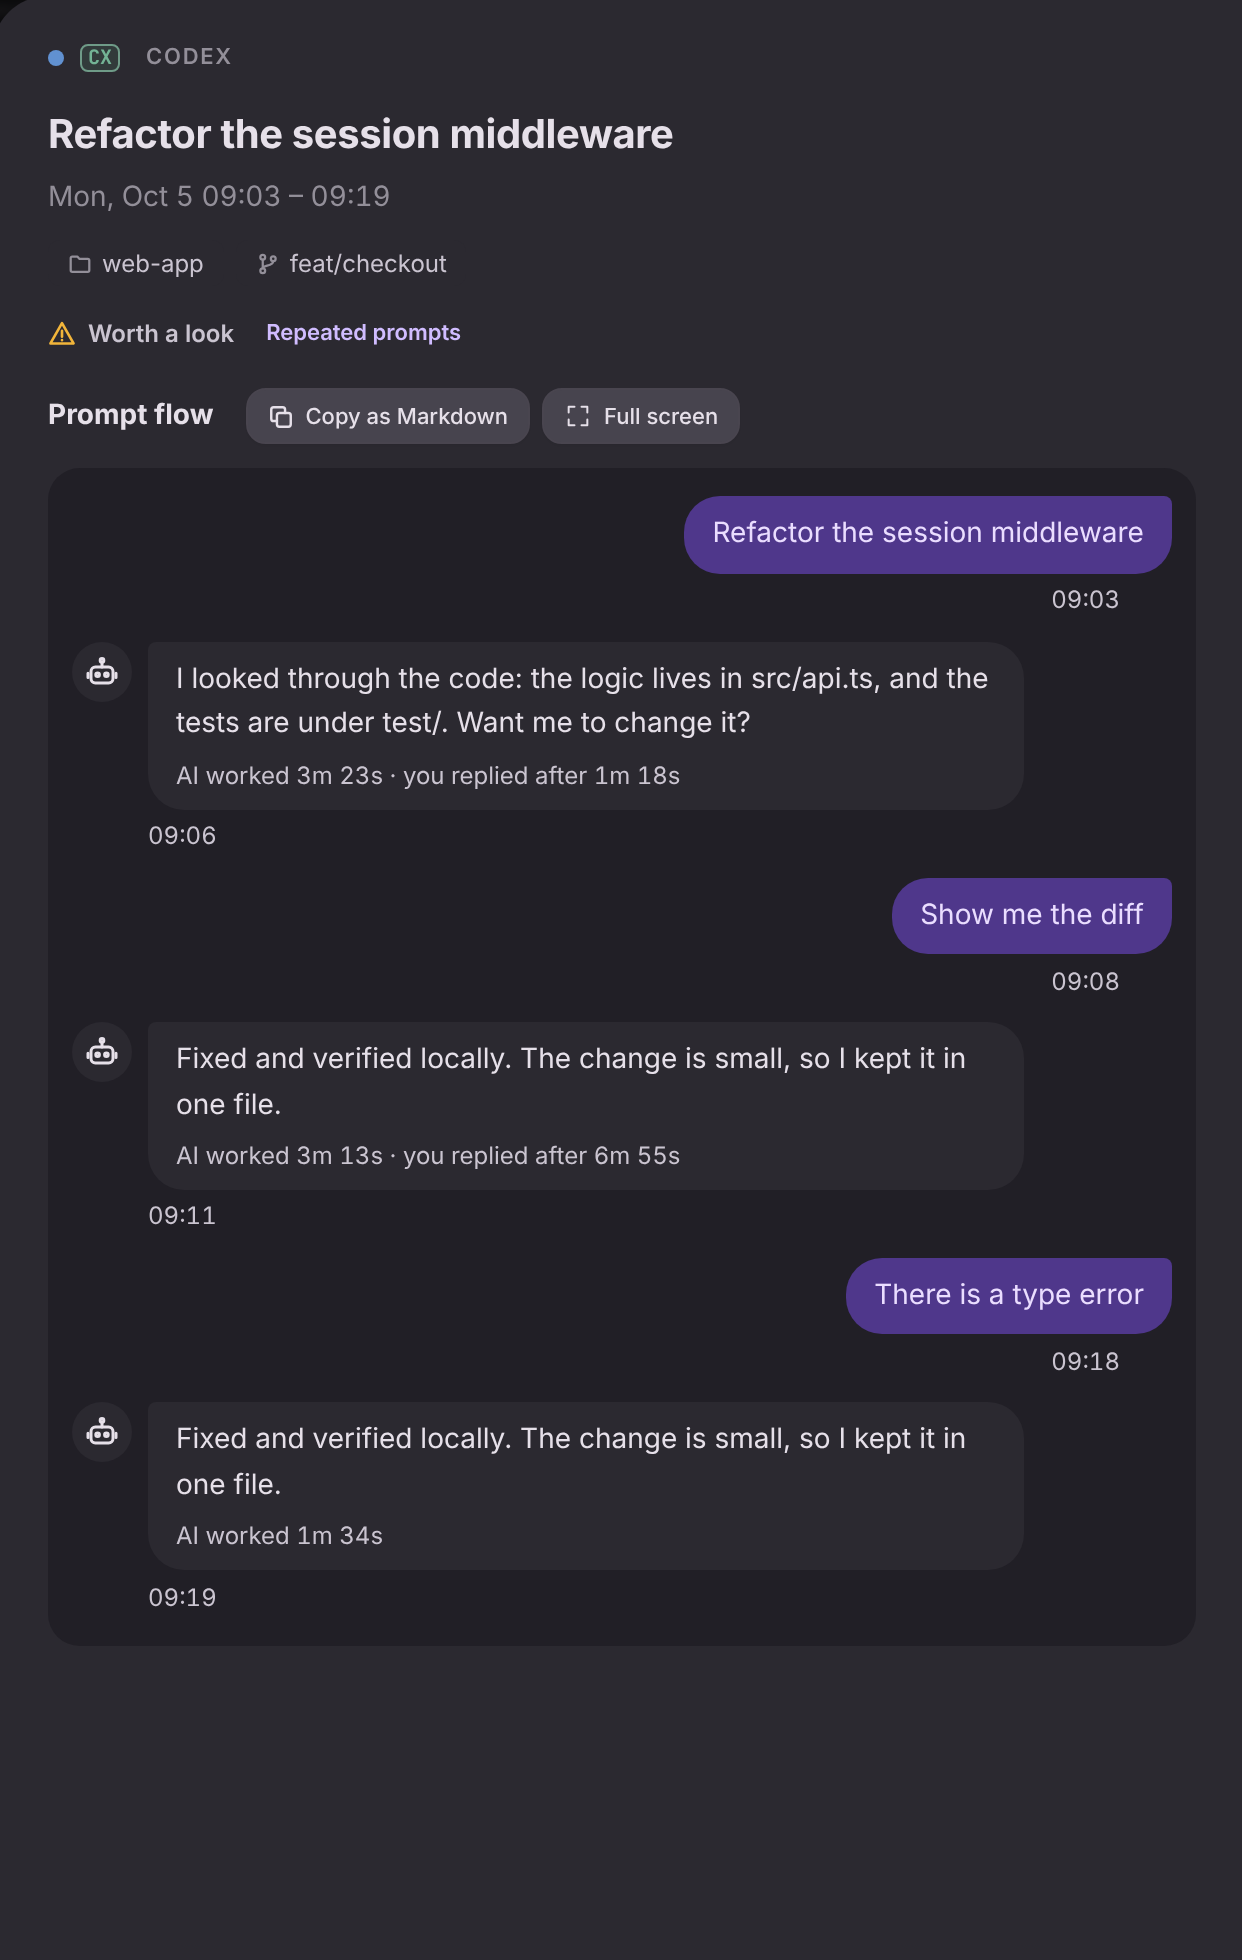
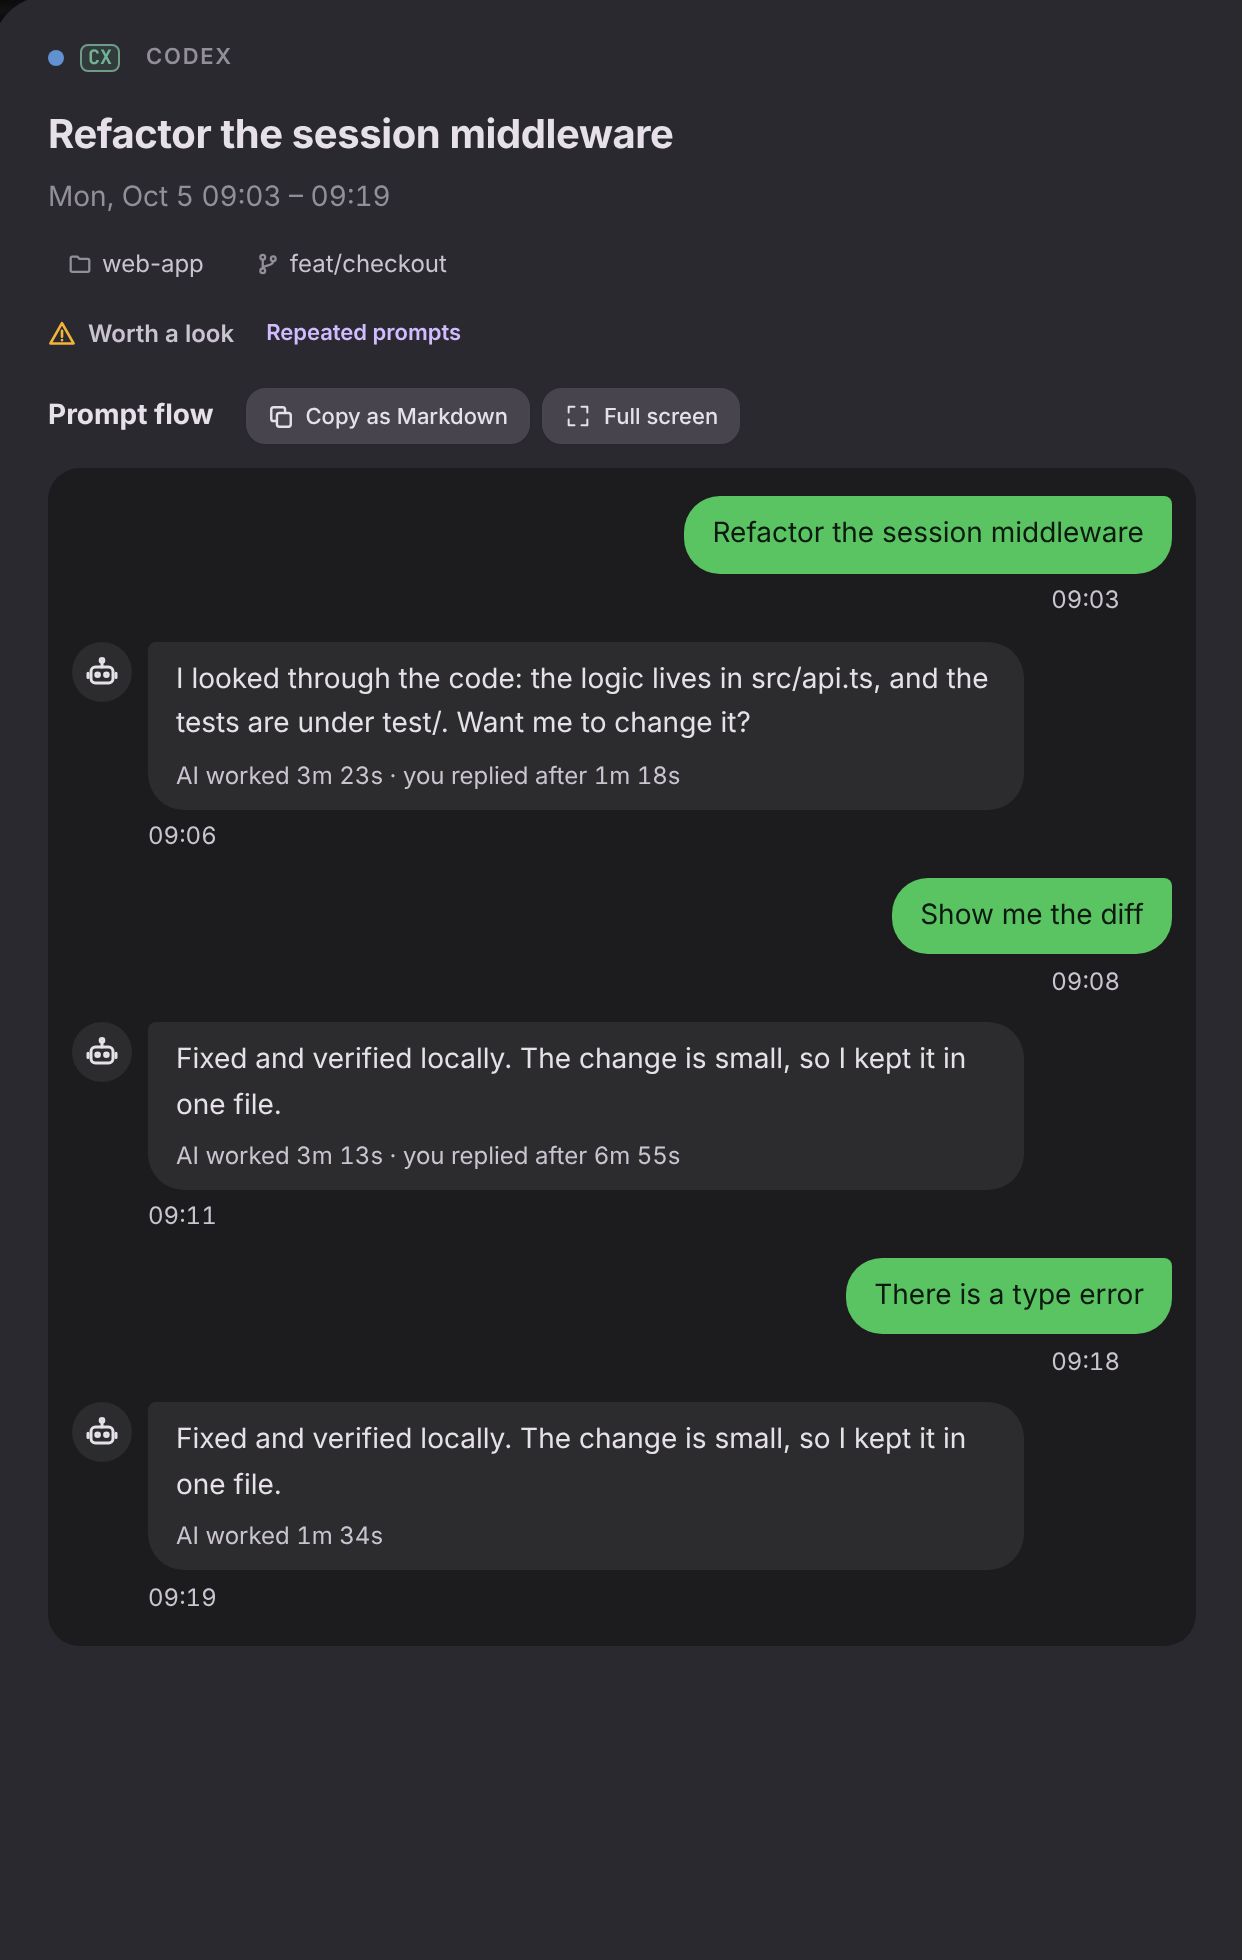
Session details: prompt flow in dark messaging-app colors
The prompt flow now reads like a dark-mode messaging app (colors only,
no logo or other brand asset): your prompts are green bubbles (#5ac463)
with near-black text, the AI's replies dark gray bubbles (#2c2c2e) with
light text, on a dark neutral gray background (#1c1c1e). Tags, links,
cut notes and focus rings inside your bubbles turn dark so they stay
readable on green; events, notes, limits and interruptions keep their
own labels on a lighter gray or red.

TestChatContrast checks every text and mark pair in the flow: at least
4.5:1 for text and 3:1 for small marks, blending the translucent tag
background and the resting copy button with what is under them.

Changed region(s): [[0.5507, 0.249, 0.9485, 0.3112], [0.6731, 0.6224, 0.9485, 0.6847], [0.7037, 0.4357, 0.9485, 0.498]]

diff --git a/internal/web/style.css b/internal/web/style.css
@@ -964,11 +964,11 @@ header{background:var(--s-cont);border-bottom:0}
 @media (max-width:520px){.istats .stat:last-child:nth-child(odd){grid-column:auto}}
 /* スマホ：指標の切り替えは折り返さず、横にスクロール */
 @media (max-width:820px){.insk{flex-wrap:nowrap;overflow-x:auto;max-width:100%;scrollbar-width:none}.insk::-webkit-scrollbar{display:none}.insk button{flex:none}.inshead{flex-wrap:wrap}}
-/* ── プロンプトの流れ：メッセージアプリの会話の見た目 ──
-   kiroku の面の色（M3 の段）の地に、あなたの発言は右の紫の容器の吹き出し（自分の印は出さない）、AI の応答は左の白い吹き出しと印。
-   時刻は吹き出しの外の下の端。あいだに起きたこと（コミット・PR・中断など）は、真ん中の灰色の札（上限と中断は赤の容器） */
-.tl{--chat-bg:var(--s-cont);--chat-me:var(--pc);--chat-me-ink:var(--on-pc);--chat-me-meta:#cbb8f5;--chat-ai:var(--surface-2);--chat-ai-ink:var(--ink);--chat-ai-meta:var(--ink-2);--chat-sys:var(--s-highest);--chat-sys-ink:var(--ink-2);--chat-warn:#601410;--chat-warn-ink:#f9dedc;--chat-ink:var(--ink-2);--chat-tag:rgba(0,0,0,.22);--chat-tag-ink:var(--amber-ink);--chat-link:var(--acc-ink);--chat-gap:var(--rule);background:var(--chat-bg);border-radius:16px;padding:14px 12px}
-/* ダーク：同じ役目の暗い面の色（M3 の段）。あなたの吹き出しは紫の容器 */
+/* ── プロンプトの流れ：メッセージアプリ（LINE のダーク）の会話の見た目。色だけを借りる（ロゴや印は使わない） ──
+   暗い中立の灰色の地に、あなたの発言は右の緑の吹き出しに黒に近い字（自分の印は出さない）、AI の応答は左の濃い灰色の吹き出しに明るい字と印。
+   時刻とコピーは吹き出しの外の下の端。あいだに起きたこと（コミット・PR・中断など）は、真ん中の明るめの灰色の札（上限と中断は赤の容器）。
+   字と地の組み合わせは palette_test.go の TestChatContrast で確かめる（字は 4.5:1、小さな印は 3:1 以上）。値を変えるときは両方を直す */
+.tl{--chat-bg:#1c1c1e;--chat-me:#5ac463;--chat-me-ink:#0d1a10;--chat-me-meta:#1f4426;--chat-me-tag:rgba(0,0,0,.1);--chat-me-warn:#550c09;--chat-ai:#2c2c2e;--chat-ai-ink:#e6e0e9;--chat-ai-meta:#cac4d0;--chat-sys:#3a3a3c;--chat-sys-ink:#cac4d0;--chat-note:#9b97dc;--chat-warn:#601410;--chat-warn-ink:#f9dedc;--chat-ink:#cac4d0;--chat-tag:rgba(0,0,0,.22);--chat-tag-ink:var(--amber-ink);--chat-link:#d0bcff;--chat-gap:#48484a;background:var(--chat-bg);border-radius:16px;padding:14px 12px}
 .tl li>time,.tl time{color:var(--chat-ink)}
 .tl li.pr:not(.ev){justify-content:flex-end;padding-right:0;padding-left:12%}
 .tl li.pr:not(.ev)>.av{display:none}
@@ -982,7 +982,7 @@ header{background:var(--s-cont);border-bottom:0}
 .tl li .pcopy{color:var(--chat-ink)}
 @media (max-width:600px){.tl li.pr:not(.ev){padding-left:0}.tl li.rp{padding-right:0}}
 .tl li.ev,.tl li.ev.note{background:var(--chat-sys);color:var(--chat-sys-ink)}
-.tl li.ev>.ic,.tl li.ev>time{color:var(--chat-sys-ink)}.tl li.ev.ai>.ic,.tl li.ev.pr>.ic{color:var(--acc)}.tl li.ev.note>.ic{color:var(--note)}
+.tl li.ev>.ic,.tl li.ev>time{color:var(--chat-sys-ink)}.tl li.ev.ai>.ic,.tl li.ev.pr>.ic{color:var(--acc)}.tl li.ev.note>.ic{color:var(--chat-note)}
 .tl li.ev.note .evl{color:var(--ink)}.tl li.ev.note .evd{color:var(--chat-sys-ink)}.tl li.ev.int .evl,.tl li.ev.warn .evl{color:var(--chat-warn-ink)}
 .tl li.ev.int,.tl li.ev.warn{background:var(--chat-warn);color:var(--chat-warn-ink)}
 .tl li.ev.int>.ic,.tl li.ev.warn>.ic,.tl li.ev.int>time,.tl li.ev.warn>time{color:var(--chat-warn-ink)}
@@ -994,6 +994,13 @@ header{background:var(--s-cont);border-bottom:0}
 .tl li.pr .ptext>code{background:var(--chat-tag)}
 .tl .pcut,.tl li.rp .pmeta{color:var(--chat-ai-meta)}
 .tl .pexp,.tl .pload,.tl .rload{color:var(--chat-link)}.tl .pload,.tl .rload{border-color:var(--chat-link)}
+/* 緑の吹き出しの中の小さな字（札・コード・続きを読む・途中まで）は、暗い字で（明るい色の字は緑の上で読めない） */
+.tl li.pr:not(.ev) .pkind{color:var(--chat-me-ink);background:var(--chat-me-tag)}
+.tl li.pr:not(.ev) .pkind.fix,.tl li.pr:not(.ev) .pkind.big{color:var(--chat-me-warn);background:var(--chat-me-tag)}
+.tl li.pr:not(.ev) .ptext>code{background:var(--chat-me-tag)}
+.tl li.pr:not(.ev) .pcut{color:var(--chat-me-meta)}
+.tl li.pr:not(.ev) .pexp,.tl li.pr:not(.ev) .pload{color:var(--chat-me-ink);text-decoration:underline;text-underline-offset:2px}.tl li.pr:not(.ev) .pload{border-color:var(--chat-me-ink)}
+.tl li.pr:not(.ev) p :focus-visible{outline-color:var(--chat-me-ink)}
 /* エージェント別の表：単位の違う費用とクレジットを混ぜずに列で並べる。狭い画面では表だけ横にスクロール */
 .iagw{overflow-x:auto}
 .iagt{width:100%;border-collapse:collapse;font-size:var(--fs-sm);font-variant-numeric:tabular-nums}

diff --git a/internal/web/palette_test.go b/internal/web/palette_test.go
@@ -130,3 +130,76 @@ func deltaE(a, b string, sim *[3][3]float64) float64 {
 	x, y := conv(a), conv(b)
 	return 100 * math.Sqrt((x[0]-y[0])*(x[0]-y[0])+(x[1]-y[1])*(x[1]-y[1])+(x[2]-y[2])*(x[2]-y[2]))
 }
+
+// プロンプトの流れ（.tl）の色は、メッセージアプリ（LINE のダーク）に寄せた吹き出し。字と地の組み合わせが読めることを確かめる:
+//   - 吹き出しの字・時刻・小さな字（4.5:1 以上。WCAG 2.x の相対輝度のコントラスト比）
+//   - コピーのボタン・出来事の印など小さな印（3:1 以上）
+//
+// 半透明の地（--chat-me-tag）と、ふだん薄く見せるコピーのボタン（opacity .45）は、下の地と混ぜた色で比べる。
+func TestChatContrast(t *testing.T) {
+	i := strings.Index(style, ".tl{--chat-bg:")
+	if i < 0 {
+		t.Fatal("style.css has no .tl{--chat-bg: block")
+	}
+	block := style[i : i+strings.Index(style[i:], "}")]
+	v := func(name string) string {
+		m := regexp.MustCompile(`--` + name + `:(#[0-9a-fA-F]{6})[;}]?`).FindStringSubmatch(block + "}")
+		if m == nil {
+			t.Fatalf("--%s is not a #rrggbb color in .tl", name)
+		}
+		return m[1]
+	}
+	tagA := regexp.MustCompile(`--chat-me-tag:rgba\(0,0,0,([0-9.]+)\)`).FindStringSubmatch(block)
+	if tagA == nil {
+		t.Fatal("--chat-me-tag is not rgba(0,0,0,a)")
+	}
+	a, _ := strconv.ParseFloat(tagA[1], 64)
+	op := regexp.MustCompile(`\.tl li \.pcopy\{opacity:([0-9.]+)\}`).FindStringSubmatch(style)
+	if op == nil {
+		t.Fatal("style.css has no .tl li .pcopy{opacity:…}")
+	}
+	o, _ := strconv.ParseFloat(op[1], 64)
+	bg, me, ai, sys := v("chat-bg"), v("chat-me"), v("chat-ai"), v("chat-sys")
+	tag := blend("#000000", me, a)
+	for _, c := range []struct {
+		name, fg, bg string
+		min          float64
+	}{
+		{"your prompt", v("chat-me-ink"), me, 4.5},
+		{"your prompt's meta and cut note", v("chat-me-meta"), me, 4.5},
+		{"tag in your prompt", v("chat-me-ink"), tag, 4.5},
+		{"correction or long tag in your prompt", v("chat-me-warn"), tag, 4.5},
+		{"AI reply", v("chat-ai-ink"), ai, 4.5},
+		{"AI reply meta", v("chat-ai-meta"), ai, 4.5},
+		{"link in an AI reply", v("chat-link"), ai, 4.5},
+		{"time under a bubble", v("chat-ink"), bg, 4.5},
+		{"copy button at rest", blend(v("chat-ink"), bg, o), bg, 3},
+		{"event text", v("chat-sys-ink"), sys, 4.5},
+		{"note mark", v("chat-note"), sys, 3},
+		{"limit or interruption text", v("chat-warn-ink"), v("chat-warn"), 4.5},
+	} {
+		if r := contrast(c.fg, c.bg); r < c.min {
+			t.Errorf("%s: %s on %s is %.2f:1, want at least %.1f:1", c.name, c.fg, c.bg, r, c.min)
+		}
+	}
+}
+
+// blend は、fg を不透明度 a で bg の上に重ねた色（sRGB の値で混ぜる。ブラウザーの合成と同じ）
+func blend(fg, bg string, a float64) string {
+	out := "#"
+	for i := 0; i < 3; i++ {
+		f, _ := strconv.ParseUint(fg[1+2*i:3+2*i], 16, 8)
+		b, _ := strconv.ParseUint(bg[1+2*i:3+2*i], 16, 8)
+		out += strconv.FormatInt(int64(math.Round(a*float64(f)+(1-a)*float64(b)))+0x100, 16)[1:]
+	}
+	return out
+}
+
+func contrast(a, b string) float64 {
+	lum := func(h string) float64 { c := linRGB(h); return 0.2126*c[0] + 0.7152*c[1] + 0.0722*c[2] }
+	x, y := lum(a), lum(b)
+	if x < y {
+		x, y = y, x
+	}
+	return (x + 0.05) / (y + 0.05)
+}

diff --git a/docs/guide.md b/docs/guide.md
@@ -103,7 +103,7 @@ The old forms `kiroku --serve`, `--json`, `-o` and `--weekly` / `--monthly` have
 - "Color by" Project / Agent is the selector at the start of the legend (Agent by default). The legend belongs to the calendar and is not shown in the summary. The numbers in the legend are active time, split between sessions that ran at the same time like in "Where it went"; click an item to show or hide it. On a wide window the legend stays in one row; when it doesn't fit, scroll it sideways (the right edge fades while there is more). In the week calendar, each week picks the height of an hour (44px, or 36px when needed) that fits its working hours, from the morning start to the latest end, in the calendar
 - Click a bar to show its details. On wide screens the left column is the prompt flow with times, and the right column has, from the top, what you can do (the resume command and "Copy prompt" for a review), the key numbers (active time, prompts, wait time, cost and tokens) and the rest (what was left behind: commits, pull requests, files edited by AI, each path a link: to the commit on the remote when there is one, otherwise to the file on this computer in the HTML file; subagents; and, at the end, the history file, models used and tools used). On narrow screens the same parts come in the order: what you can do, the key numbers, the prompt flow, the rest. The keyboard (`Tab`) goes through them in that order on any width
   - When the session is behind a metric flagged in "Worth a look" for the period shown, those metrics are listed under the title; press one to open the same dialog
-  - The prompt flow reads like a chat, in time order: your prompts are purple bubbles on the right, the AI's replies are gray bubbles on the left next to a robot mark, and what happened between them (commits, pull requests created, usage limit hits with the reset time the message gave, interruptions and subagents starting) is a small gray label in the middle (red for limits and interruptions). Opening a commit from the flow and pressing back returns to where you were reading
+  - The prompt flow reads like a chat, in time order, in the colors of a dark-mode messaging app on a dark gray background: your prompts are green bubbles with dark text on the right, the AI's replies are dark gray bubbles with light text on the left next to a robot mark, and what happened between them (commits, pull requests created, usage limit hits with the reset time the message gave, interruptions and subagents starting) is a small gray label in the middle (red for limits and interruptions). Opening a commit from the flow and pressing back returns to where you were reading
   - Each of your prompts and each AI reply has a copy button (faint until you point at it) that copies its text as recorded, to reuse it. A long prompt or reply the view cut is copied in full in `kiroku serve`; a saved HTML file copies the part it contains and says so
   - The copy button next to **Prompt flow** copies the whole conversation, prompts and replies in order, as Markdown, to hand the work to another agent or paste it into a PR or a note
   - **Full screen** next to it (or `F`) shows only the prompt flow across the whole window, for reading a long conversation; `Esc` or the button again returns to the details. It stays on while you move to other sessions

diff --git a/changes/chat-colors.changed.md b/changes/chat-colors.changed.md
@@ -1,0 +1,1 @@
+- Session details: the prompt flow takes the colors of a dark-mode messaging app: your prompts are green bubbles with dark text, the AI's replies dark gray bubbles with light text, on a dark neutral gray background. Labels, links and notes inside your bubbles turn dark to stay readable, and a test checks the contrast of every text and mark in the flow (at least 4.5:1 for text, 3:1 for small marks)
